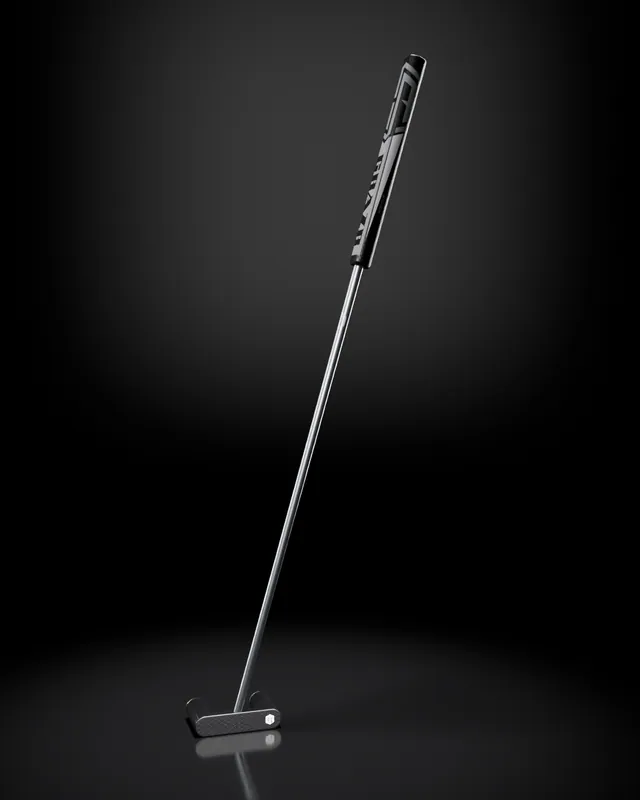
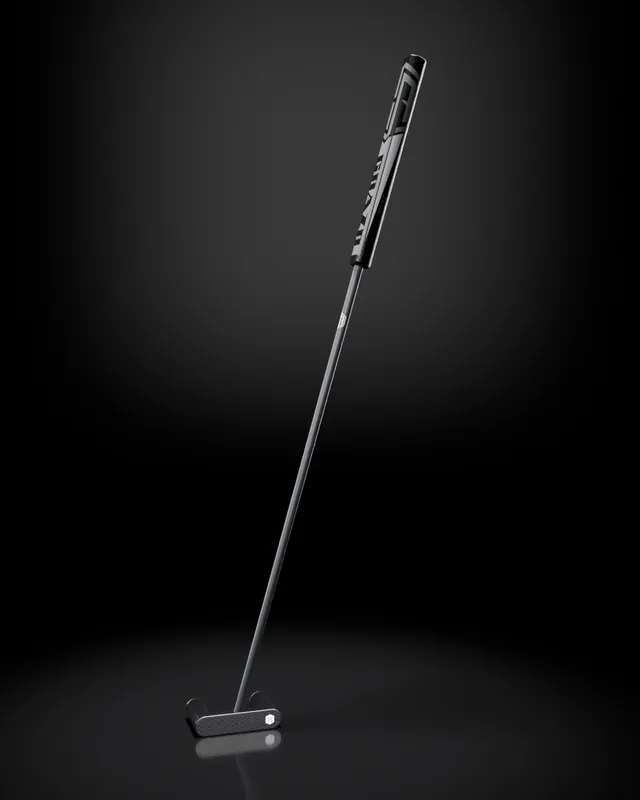
Darken the 33-inch silver shaft to a satin grey in the viewer and stills
Claude-Session: https://claude.ai/code/session_01GCpT9mK9AWHbd4r5LVPQn2

diff --git a/website/public/assets/js/site.js b/website/public/assets/js/site.js
@@ -6,7 +6,7 @@
   var reduceMotion = window.matchMedia && window.matchMedia("(prefers-reduced-motion: reduce)").matches;
   var SHAFT = {
     black: { color: [0.004, 0.004, 0.0045, 1], metallic: 0, roughness: 0.12, clearcoat: 1 },
-    silver: { color: [0.22, 0.23, 0.24, 1], metallic: 0.2, roughness: 0.5, clearcoat: 0 }
+    silver: { color: [0.08, 0.083, 0.088, 1], metallic: 0.3, roughness: 0.6, clearcoat: 0 }
   };
   var shaftState = "black";
 

diff --git a/website/public/en/index.html b/website/public/en/index.html
@@ -340,5 +340,5 @@
     <p class="copy">© 2026 GRAZR. All rights reserved.</p>
   </div>
 </footer>
-<script src="/assets/js/site.js?v=3f983123af" defer></script></body>
+<script src="/assets/js/site.js?v=57768b17f6" defer></script></body>
 </html>

diff --git a/website/public/index.html b/website/public/index.html
@@ -387,5 +387,5 @@
     <p class="copy">© 2026 GRAZR. All rights reserved.</p>
   </div>
 </footer>
-<script src="/assets/js/site.js?v=3f983123af" defer></script></body>
+<script src="/assets/js/site.js?v=57768b17f6" defer></script></body>
 </html>

diff --git a/website/tools/render_stills.py b/website/tools/render_stills.py
@@ -31,8 +31,8 @@ SHAFT = bpy.data.materials["Graphite_Shaft_GlossBlack"].node_tree.nodes["Princip
 FINISH = {
     "black": {"Base Color": (0.004, 0.004, 0.004, 1), "Metallic": 0.0, "Roughness": 0.12,
               "Coat Weight": 1.0, "Coat Roughness": 0.03},
-    "silver": {"Base Color": (0.60, 0.62, 0.65, 1), "Metallic": 0.9, "Roughness": 0.34,
-               "Coat Weight": 0.25, "Coat Roughness": 0.22},
+    "silver": {"Base Color": (0.13, 0.135, 0.145, 1), "Metallic": 0.5, "Roughness": 0.5,
+               "Coat Weight": 0.0, "Coat Roughness": 0.22},
 }
 BLACK_COAT_ROUGH = SHAFT.inputs["Coat Roughness"].default_value
 FINISH["black"]["Coat Roughness"] = BLACK_COAT_ROUGH
